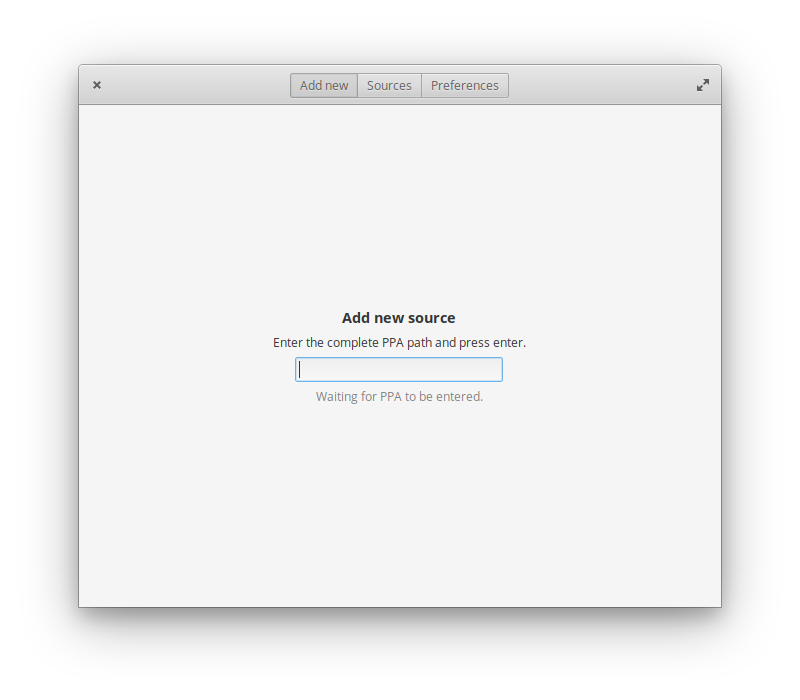
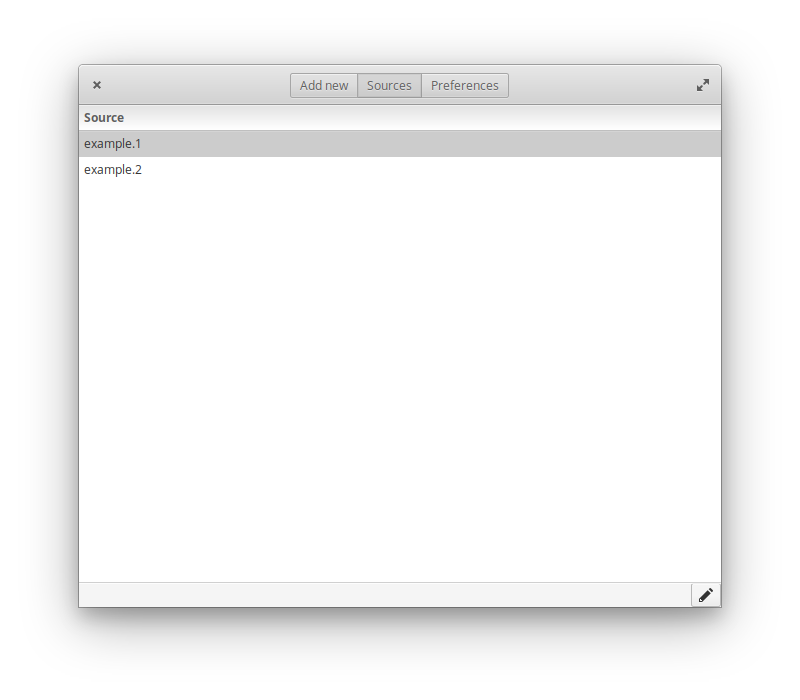
Added UI for Edit dialog Updated translation model

diff --git a/README.md b/README.md
@@ -8,6 +8,7 @@ An application to extend repo on debian/ubuntu based systems.
   <img src="https://raw.githubusercontent.com/linuxhubit/ppaextender/master/data/screenshot-1.png" width="300">
   <img src="https://raw.githubusercontent.com/linuxhubit/ppaextender/master/data/screenshot-2.png" width="300">
   <img src="https://raw.githubusercontent.com/linuxhubit/ppaextender/master/data/screenshot-3.png" width="300">
+  <img src="https://raw.githubusercontent.com/linuxhubit/ppaextender/master/data/screenshot-4.png" width="300">
 </div>
 
 ## Warning
@@ -26,12 +27,12 @@ sudo ninja install
 
 ## TODO
 * UI Edit dialog
-    - Type of source
-    - Release chooser [#15 (from old repo)](https://github.com/mirkobrombin/PPAExtender/issues/15)
-    - Component editor
-    - Disable/Enable [#11 (from old repo)](https://github.com/mirkobrombin/PPAExtender/issues/11)
-    - Source URI
-    - Delete source
+    - ~~Type of source~~
+    - ~~Release chooser~~ [#15 (from old repo)](https://github.com/mirkobrombin/PPAExtender/issues/15)
+    - ~~Component editor~~
+    - ~~Disable/Enable~~ [#11 (from old repo)](https://github.com/mirkobrombin/PPAExtender/issues/11)
+    - ~~Source URI~~
+    - ~~Delete source~~
 * UI Add view
     - ~~PPA UI~~
     - Flatpak UI
@@ -42,5 +43,6 @@ sudo ninja install
 * Core.Sources.list
 * Core.Sources.add
 * Core.Sources.delete
+* Core.Sources.edit
 * Core.Sources.update
 
